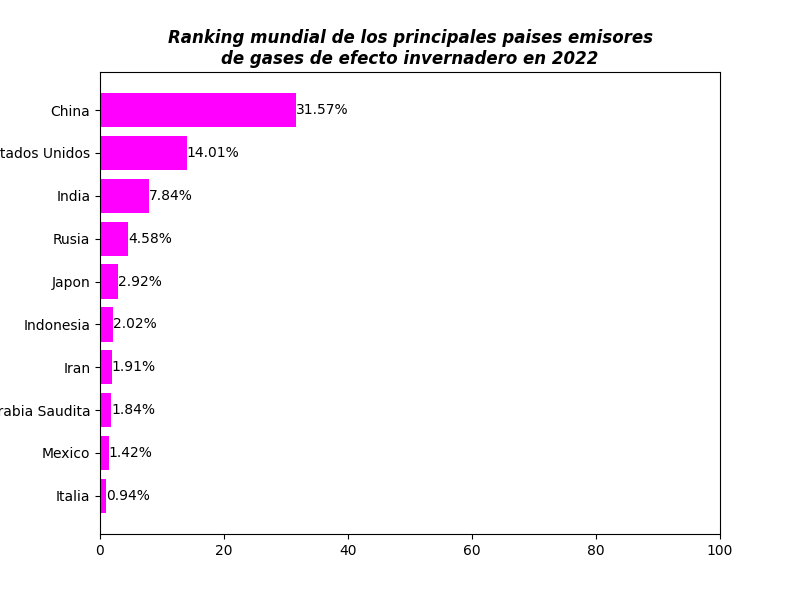
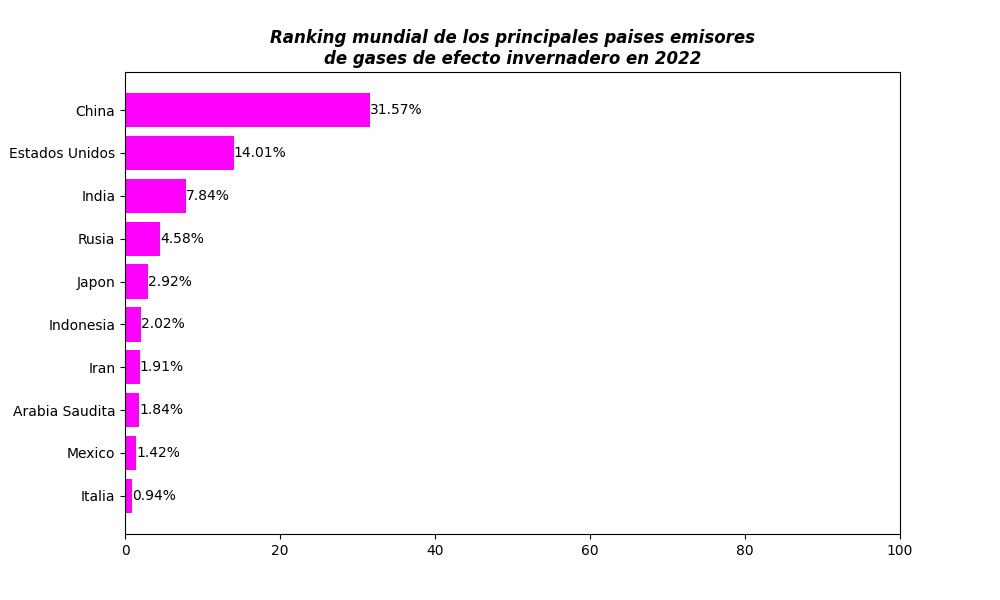
Conclusion del proyecto

diff --git a/app.py b/app.py
@@ -1,15 +1,5 @@
-import numpy as np
-import pandas as pd
-import matplotlib.pyplot as plt
-
-import plotly.offline as py
-py.init_notebook_mode(connected=True)
-import plotly.graph_objs as go
-import plotly.tools as tls
-import seaborn as sns
-import time
-import warnings
 import os
+import warnings
 warnings.filterwarnings('ignore')
 
 from flask import Flask, render_template

diff --git a/Modulo_3.py b/Modulo_3.py
@@ -36,7 +36,7 @@ def ranking_mundial_co():
     serie_datos= pd.Series(data=Porcentaje)
     serie_datos = serie_datos.sort_values(ascending=True)
 
-    fig, ax = plt.subplots(figsize=(8,6))
+    fig, ax = plt.subplots(figsize=(10,6))
     bars = ax.barh(serie_datos.index, serie_datos.values, color ='magenta')  
     ax.set_xlim(0, 100)
 
